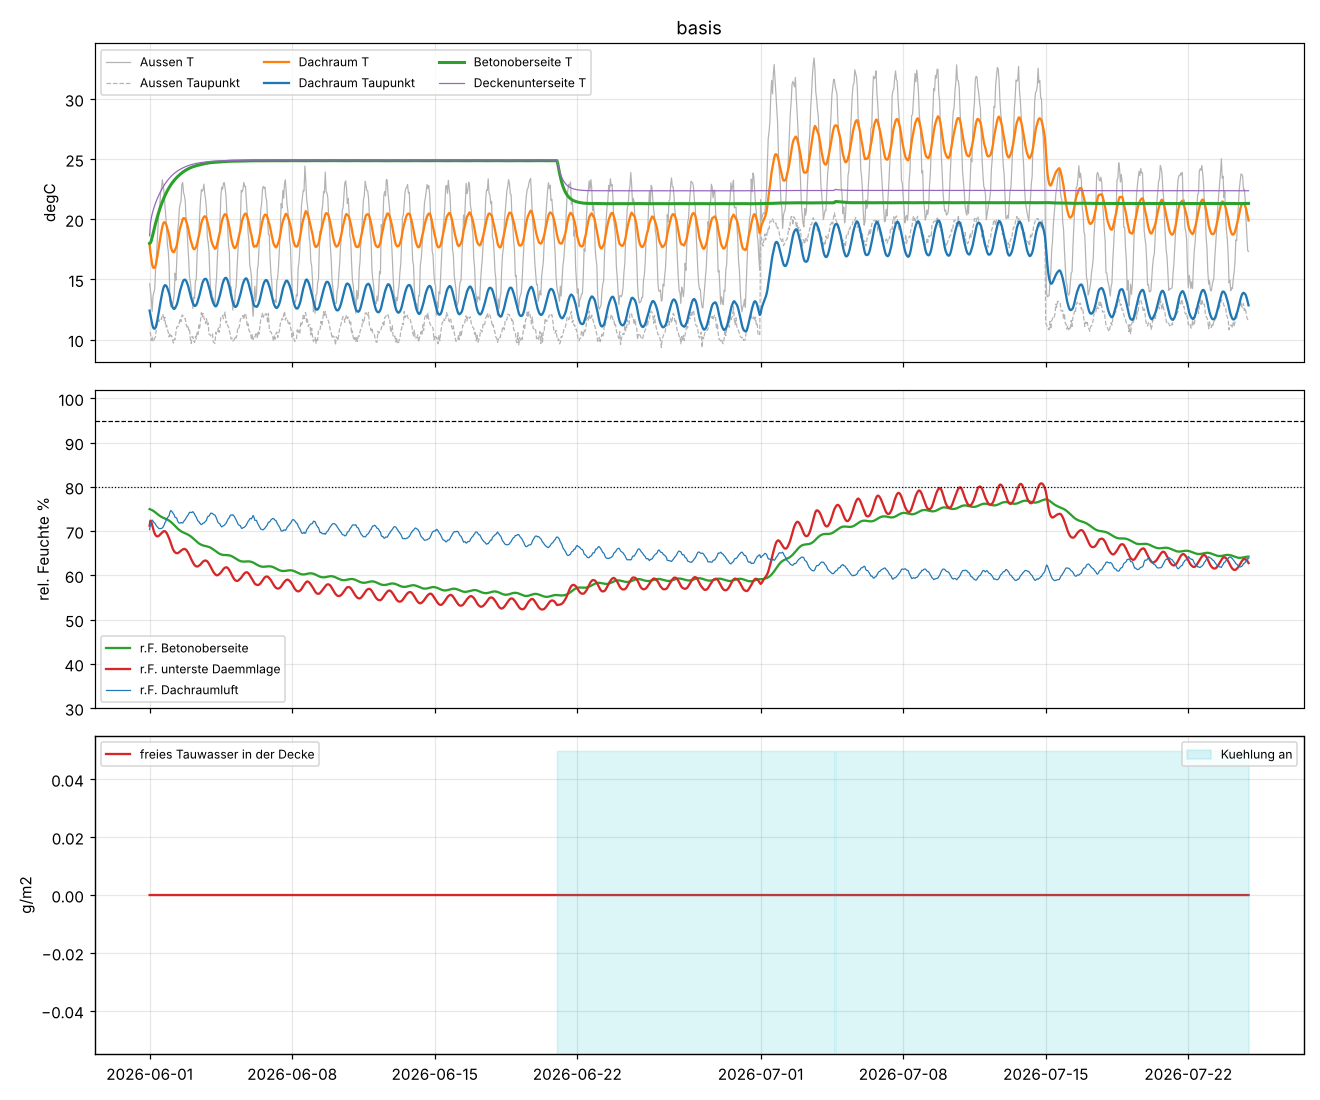
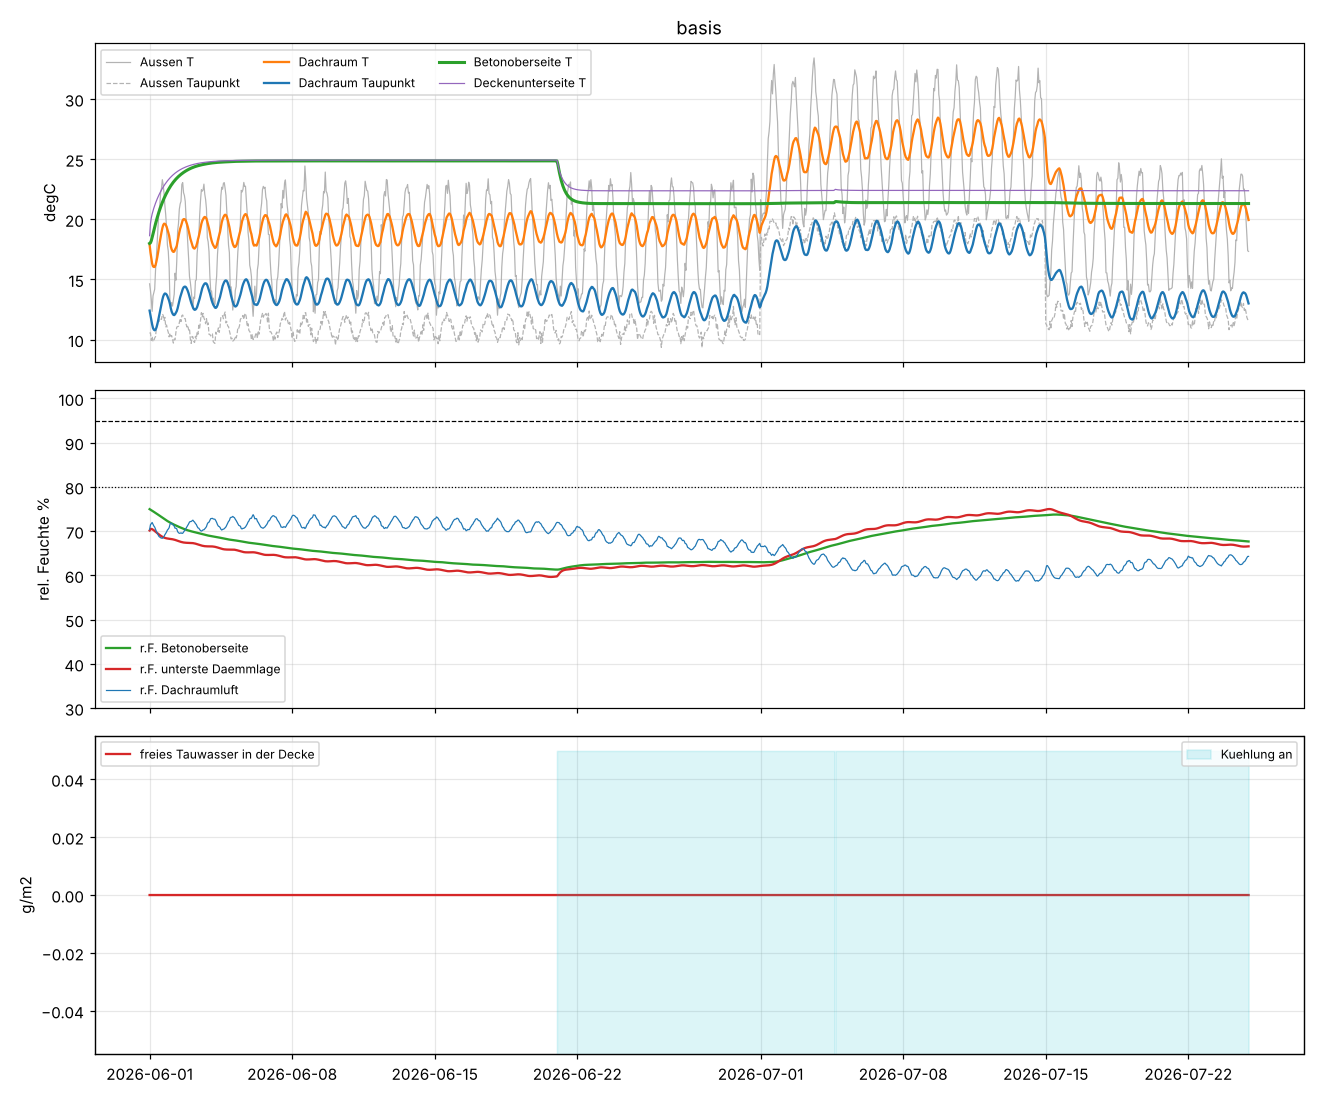
Use confirmed ceiling build-up: 30 cm loose-fill cellulose, no foil
Add cellulose material (hygroscopic, assumed values), report maximum
moisture content of the lowest insulation layer and update results.

Claude-Session: https://claude.ai/code/session_01JZBdeKqeZT9G5T1xVSHB6R

diff --git a/tools/attic-sim/attic_sim/simulate.py b/tools/attic-sim/attic_sim/simulate.py
@@ -64,7 +64,7 @@ def run(cfg, weather, attic_measured=None):
     rec = {k: [] for k in (
         "t_h", "T_out", "Td_out", "T_att", "Td_att", "RH_att", "T_conc_top", "RH_conc_top",
         "RH_ins_bot", "cond_g", "pipe_on", "T_ceil_bottom", "Td_room", "phi_wood",
-        "q_pipe", "g_top")}  # g_top: kumuliert [kg/m2], Decke -> Dachraum
+        "q_pipe", "g_top", "u_ins_bot")}  # g_top: kumuliert [kg/m2], Decke -> Dachraum
     pipe_on = False
     guard_off_h = 0.0
     g_cum = 0.0
@@ -121,6 +121,7 @@ def run(cfg, weather, attic_measured=None):
             rec["phi_wood"].append(att.phi_wood() if attic_measured is None else np.nan)
             rec["q_pipe"].append(info["q_pipe"])
             rec["g_top"].append(g_cum)
+            rec["u_ins_bot"].append(100.0 * col.W[i_ins_bot] / col.mats[i_ins_bot].rho)
     res = {k: np.array(v) for k, v in rec.items()}
     res["time"] = weather["time"][0] + (res["t_h"] * 3600).astype("timedelta64[s]")
     res["guard_off_h"] = guard_off_h
@@ -151,6 +152,7 @@ def summarize(res, cfg, eval_from_day=0.0):
         "Stunden r.F. Betonoberseite >= 95 %": int((rh_c >= 0.95).sum()),
         "r.F. unterste Daemmlage max [%]": round(100 * float(rh_i.max()), 1),
         "Stunden r.F. unterste Daemmlage >= 80 %": int((rh_i >= 0.80).sum()),
+        "Wassergehalt unterste Daemmlage max [M-%]": round(float(res["u_ins_bot"][m].max()), 1),
         "Tauwasser max [g/m2]": round(float(cond.max()), 1),
         "Tauwasser am Ende [g/m2]": round(float(cond[-1]), 1),
         "Tauwasser max gesamte Decke [Liter]": round(float(cond.max()) * A / 1000.0, 2),

diff --git a/tools/attic-sim/attic_sim/materials.py b/tools/attic-sim/attic_sim/materials.py
@@ -74,6 +74,10 @@ LIBRARY = {
     # Mineralwolle: praktisch nicht hygroskopisch
     "mineralwolle": Material("Mineralwolle", rho=30, c=840, lam=0.035, mu=1.0,
                              porosity=0.95, w80=0.05, wf=0.1),
+    # Zellulose-Einblas-/Schuettdaemmung, offen auf Decke (Dichte ~35-50 kg/m3).
+    # Ausgleichsfeuchte ca. 12-14 M-% bei 80 % r.F. -> GROBE ANNAHME, bitte Datenblatt pruefen.
+    "zellulose": Material("Zellulose", rho=45, c=2000, lam=0.040, mu=1.5,
+                          porosity=0.95, w80=5.9, wf=11.0),
     "eps": Material("EPS", rho=20, c=1500, lam=0.035, mu=60,
                     porosity=0.95, w80=0.01, wf=0.02),
     # Nadelholz ~16 M-% bei 80 % r.F., ~28 M-% Fasersaettigung

diff --git a/tools/attic-sim/README.md b/tools/attic-sim/README.md
@@ -69,41 +69,40 @@ python -m unittest discover -s tests             # Plausibilitätstests
 Die Ergebnisse landen in `results/`: Zeitverläufe als PNG und CSV sowie
 `zusammenfassung.json`.
 
-## Erste Ergebnisse (alle Annahmen siehe config.toml)
+## Ergebnisse für den bestätigten Aufbau
 
-Für alle Fälle wurde ein künstliches Wetterszenario gerechnet: zuerst 30 Tage
-zum Einschwingen, dann eine schwüle Hitzeperiode (Tag 26 ± 6 °C, Außentaupunkt
-wie in der Tabelle), danach Abkühlung. Ausgewertet wurde ab Tag 30.
+Bestätigt: keine Folie auf dem Beton, 30 cm geschüttete Zellulose, keine
+Raumentfeuchtung, Grundfläche 100 m², Dachneigung ca. 10°. Alle übrigen Werte
+sind weiterhin Annahmen. Die Zahlen sind deshalb **Größenordnungen**.
 
-| Fall | Taupunkt außen | Betonoberseite | max. r.F. Betonoberseite | max. r.F. unterste Dämmlage | freies Tauwasser |
-|---|---|---|---|---|---|
-| Basis (Wasser 19,5 °C, Raumfeuchte folgt außen) | 19 °C, 14 Tage | ≈21,4 °C | 77 % | 81 % | 0 |
-| Basis, Hitzeperiode verschärft | 21 °C, 21 Tage | ≈21–22 °C | 81 % | 85 % | 0 |
-| Kalte Decke (Wasser 18,5 °C, guter Rohrübergang, Beton feucht) | 21 °C, 21 Tage | ≈19,6–21 °C | 88 % | 91 % | 0 |
-| wie oben, **Raum entfeuchtet** (50 % r.F., Wächter löst nie aus) | 21 °C, 21 Tage | ≈19,7 °C | 93 % | 98 % | 0 (Beton puffert) |
-| wie oben + **PE-Folie auf Beton** | 21 °C, 21 Tage | ≈19,7 °C | – | 100 % | **bis ≈86 g/m²** auf der Folie |
+Gerechnet wurde mit künstlichem Wetter: 30 Tage zum Einschwingen, dann eine
+schwüle Hitzeperiode (Tag 26 ± 6 °C) mit dem Außentaupunkt aus der Tabelle,
+danach Abkühlung. Ausgewertet wurde ab Tag 30.
+
+| Fall | Taupunkt außen | Kühlung läuft | max. r.F. Betonoberseite | max. r.F. unterste Zellulose | max. Holzfeuchte-Äquivalent Zellulose | freies Tauwasser |
+|---|---|---|---|---|---|---|
+| Basis (Wasser 19,5 °C, Beton 75 % Startfeuchte) | 19 °C, 14 Tage | 575 h | 74 % | 75 % | 11 M-% | 0 |
+| Hitzeperiode verschärft | 21 °C, 21 Tage | 514 h | 76 % | 78 % | 12 M-% | 0 |
+| + kalte Decke (Wasser 18,5 °C, guter Rohrübergang) | 21 °C, 21 Tage | 397 h | 78 % | 80 % | 13 M-% | 0 |
+| + Beton noch baufeucht (90 % Startfeuchte) | 21 °C, 21 Tage | 395 h | 83 % | 84 % | 15 M-% | 0 |
+| kalte Decke, Taupunktwächter schaltet **nie** ab | 21 °C, 21 Tage | 744 h | 80 % | 83 % | 14 M-% | 0 |
 
 Was sich daraus ablesen lässt, unter Vorbehalt der Annahmen:
 
-1. **Ohne Folie** nimmt der Beton die Feuchte auf, die aus dem Dachraum nach
-   unten wandert. Selbst wenn der Taupunkt im Dachraum zeitweise über der
-   Temperatur der Betonoberseite liegt, entsteht in den gerechneten Fällen
-   kein freies Wasser. Über längere Zeit wird es an der Grenzfläche aber
-   **> 80 % r.F.** feucht. Bei Staub oder organischen Resten kann das für
-   Schimmel relevant sein.
-2. **Mit dampfdichter Folie auf dem Beton** fällt dieser Puffer weg. Dann
-   bildet sich direkt auf der Folie Tauwasser. Im ungünstigsten Fall waren
-   es bis ≈86 g/m² (bei 100 m² ≈ 9 Liter). In der Abkühlphase trocknet es
-   wieder ab.
-3. Der **Taupunktwächter im Raum** schützt den Dachraum nur indirekt. Das
-   klappt, solange die Raumluft mindestens so feucht ist wie die Luft im
-   Dachraum. Wird der Raum entfeuchtet, löst der Wächter nicht mehr aus und
-   die Decke bleibt an schwülen Tagen kalt. Das ist der ungünstigste Fall.
+1. In keinem dieser Fälle entsteht **freies Tauwasser**. Der Beton und die
+   Zellulose selbst nehmen die Feuchte auf, die aus dem Dachraum nach unten
+   wandert. Beide puffern.
+2. In den ungünstigen Fällen liegt die **unterste Zelluloselage** über einige
+   hundert Stunden bei **über 80 % r.F.**. Zellulose ist organisch. Ob die
+   Schutzsalze im Produkt bei dieser Feuchte und Dauer Schimmel sicher
+   verhindern, kann das Modell nicht beurteilen. Bitte im Datenblatt bzw. beim
+   Hersteller nachfragen.
+3. Der **Taupunktwächter im Raum** schaltet die Kühlung an schwülen Tagen oft
+   ab, weil die Raumluft nicht entfeuchtet wird. Das schützt indirekt auch die
+   Deckenoberseite. Wie stark, hängt von seiner Schaltschwelle ab. Die ist
+   noch unbekannt, angenommen sind 1 K Abstand zur Deckenoberfläche.
 4. Am stärksten hängt das Ergebnis von der **Temperatur der Betonoberseite**
-   ab, also von Wassertemperatur, Rohrlage und Wärmeübergang. Danach folgt,
-   **ob eine Folie auf dem Beton liegt**. Der Luftwechsel im Dachraum spielt
-   nur eine kleine Rolle, weil die Feuchte vor allem durch Schalung und Bahn
-   ausgetauscht wird.
+   und davon ab, **wie feucht der Beton noch ist** (Neubau?).
 
 ## Empfohlene Messungen (z. B. mit ESPHome)
 
